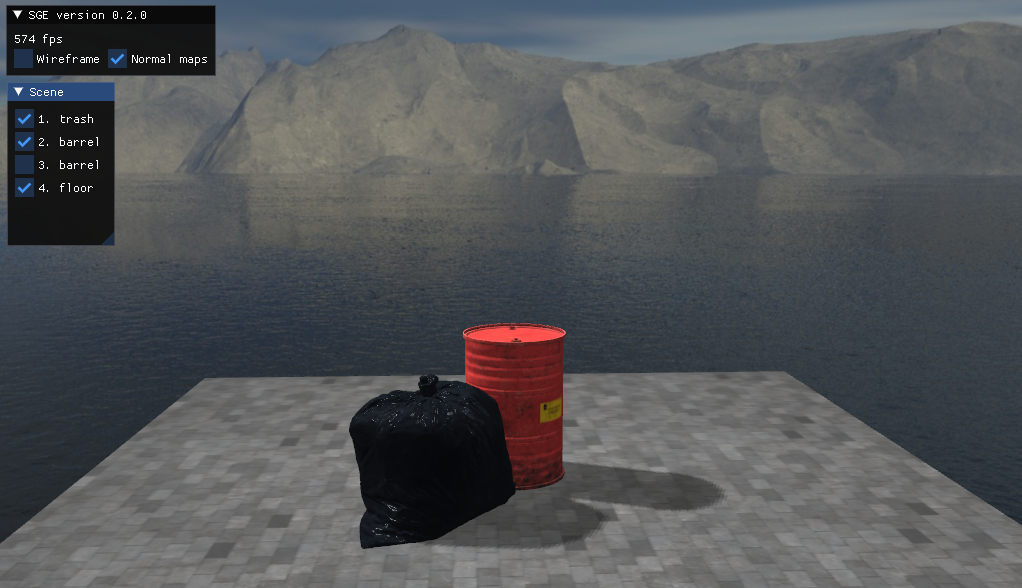
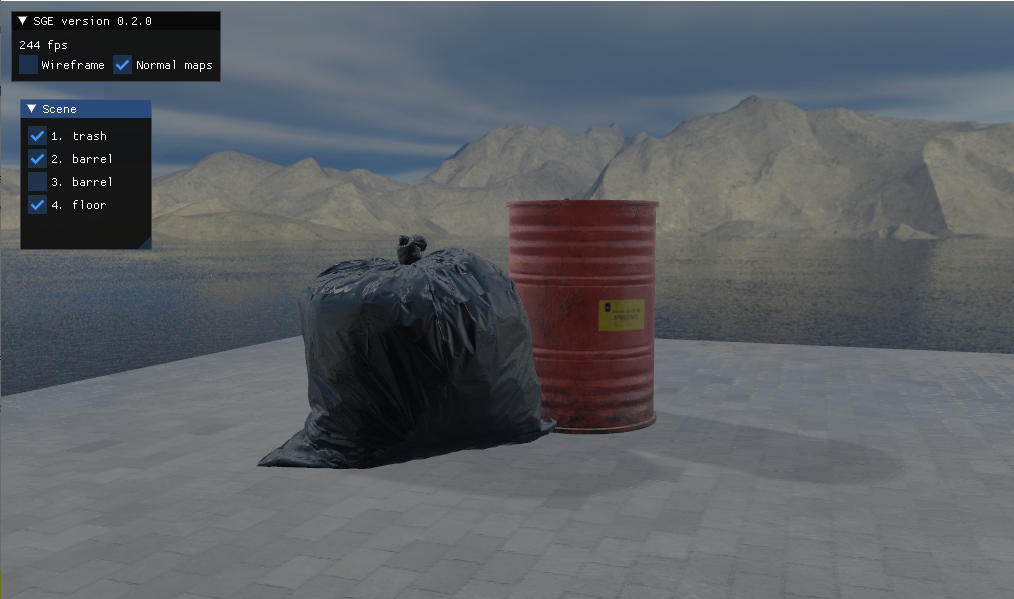
Added cubemap based sky reflection

diff --git a/engine/sources/scene.cpp b/engine/sources/scene.cpp
@@ -82,7 +82,7 @@ namespace sge
 
                 auto shader = obj.material.shader;
                 shader.use();
-                shader.setInt("skybox", 0);
+                shader.setInt("skybox", 6);
                 shader.setMatrix4("view", view);
                 shader.setMatrix4("projection", projection);
                 shader.setMatrix4("model", model);

diff --git a/engine/sources/mesh.cpp b/engine/sources/mesh.cpp
@@ -48,6 +48,7 @@ namespace sge
         glBindVertexArray(VAO);
         if (cubemap_texture >= 0)
         {
+            glActiveTexture(GL_TEXTURE6);
             glBindTexture(GL_TEXTURE_CUBE_MAP, cubemap_texture);
         }
 

diff --git a/README.md b/README.md
@@ -13,6 +13,7 @@ This project is a training sandbox for learning graphic techniques.
 - shadow maps + pcf
 - loading resources and scene from configuration file
 - cubemaps
+- cubemap based sky reflection
 
 ---
 ### Third party libs:
